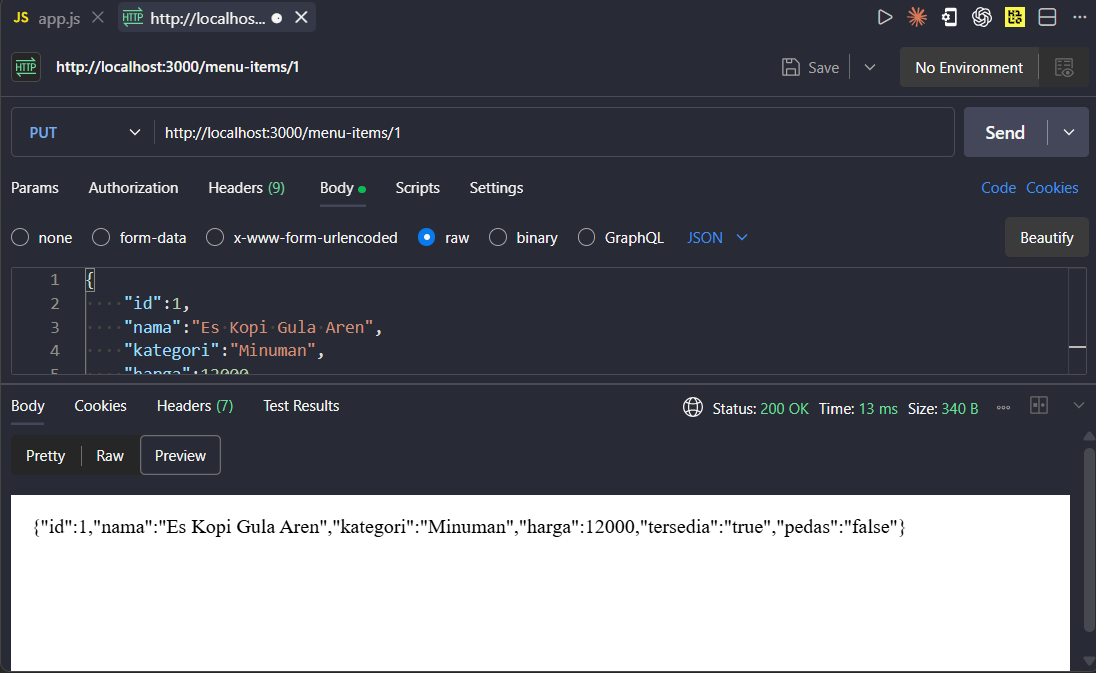
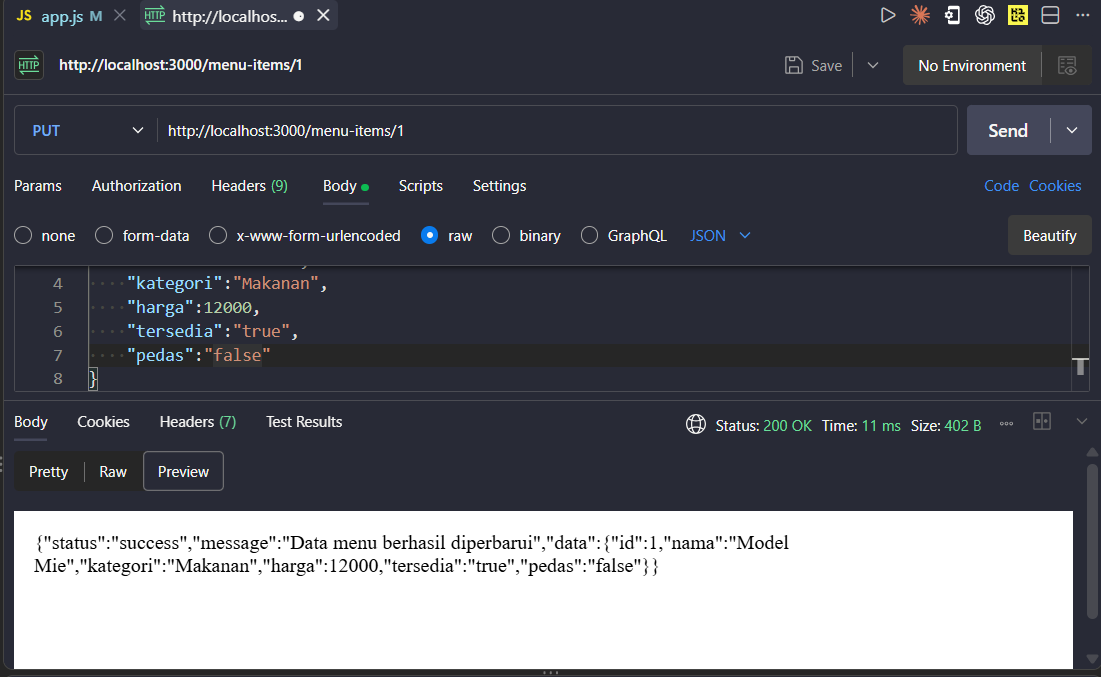
perbaikan dari hasil response POST, PUT, dan Delete

diff --git a/app.js b/app.js
@@ -40,7 +40,13 @@ app.get('/menu-items/:id', (req, res) => {
     const id = parseInt(req.params.id);
     const data = menu.find((m) => m.id === id);
 
-    if (!data) return res.status(404).json({ message: 'Data tidak ditemukan' });
+    if (!data) {
+        return res.status(404).json({
+            status: 'error',
+            message: 'Data tidak ditemukan',
+            data: null
+        });
+    }
     res.json(data);
 });
 
@@ -49,12 +55,20 @@ app.post('/menu-items', (req, res) => {
     const { nama, kategori, harga, tersedia, pedas } = req.body;
 
     if (!nama || !kategori || !harga || !tersedia || !pedas) {
-        return res.status(400).json({ message: 'Semua field wajib diisi' });
+        return res.status(400).json({
+            status: 'error',
+            message: 'Semua field wajib diisi',
+            data: null
+        });
     }
 
     const baru = { id: nextId++, nama, kategori, harga, tersedia, pedas };
     menu.push(baru);
-    res.status(201).json(baru);
+    res.status(201).json({
+        status: 'success',
+        message: 'Data menu berhasil ditambahkan',
+        data: baru
+    });
 });
 
 // PUT /menu-items/:id -> ubah data
@@ -63,11 +77,19 @@ app.put('/menu-items/:id', (req, res) => {
     const index = menu.findIndex((m) => m.id === id);
 
     if (index === -1) {
-        return res.status(404).json({ message: 'Data tidak ditemukan' });
+        return res.status(404).json({
+            status: 'error',
+            message: 'Data tidak ditemukan',
+            data: null
+        });
     }
 
     menu[index] = { ...menu[index], ...req.body, id };
-    res.json(menu[index]);
+    res.json({
+        status: 'success',
+        message: 'Data menu berhasil diperbarui',
+        data: menu[index]
+    });
 });
 
 // DELETE /menu-items/:id -> hapus data
@@ -76,11 +98,37 @@ app.delete('/menu-items/:id', (req, res) => {
     const index = menu.findIndex((m) => m.id === id);
 
     if (index === -1) {
-        return res.status(404).json({ message: 'Data tidak ditemukan' });
+        return res.status(404).json({
+            status: 'error',
+            message: 'Data tidak ditemukan',
+            data: null
+        });
     }
 
     menu.splice(index, 1);
-    res.status(204).send();
+    res.status(200).json({
+        status: 'success',
+        message: `Data menu dengan id ${id} berhasil dihapus`,
+        data: null
+    });
+});
+
+// Menyamakan format untuk route yang tidak ditemukan dan error middleware
+app.use((req, res) => {
+    res.status(404).json({
+        status: 'error',
+        message: 'Route tidak ditemukan',
+        data: null
+    });
+});
+
+app.use((err, req, res, next) => {
+    const statusCode = err.status || 500;
+    res.status(statusCode).json({
+        status: 'error',
+        message: statusCode === 500 ? 'Terjadi kesalahan pada server' : err.message,
+        data: null
+    });
 });
 
 app.listen(PORT, () => {
